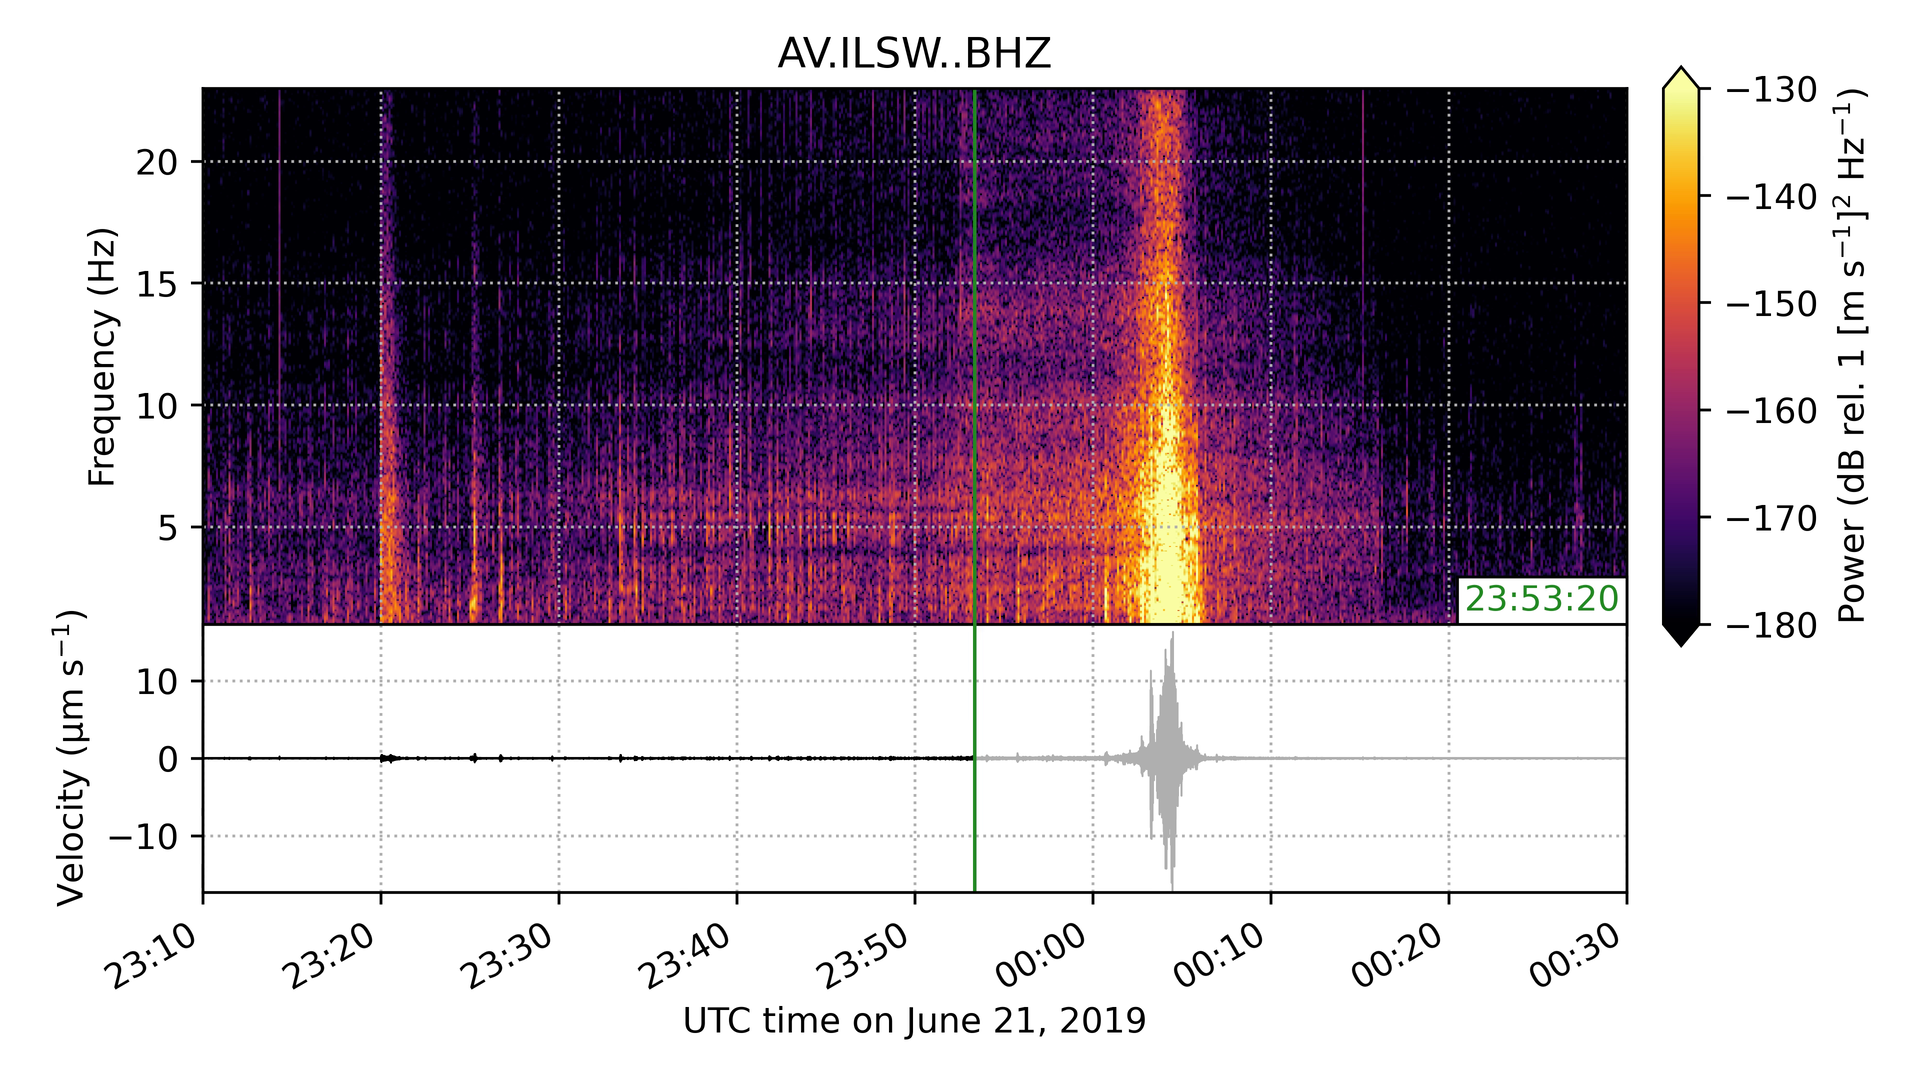
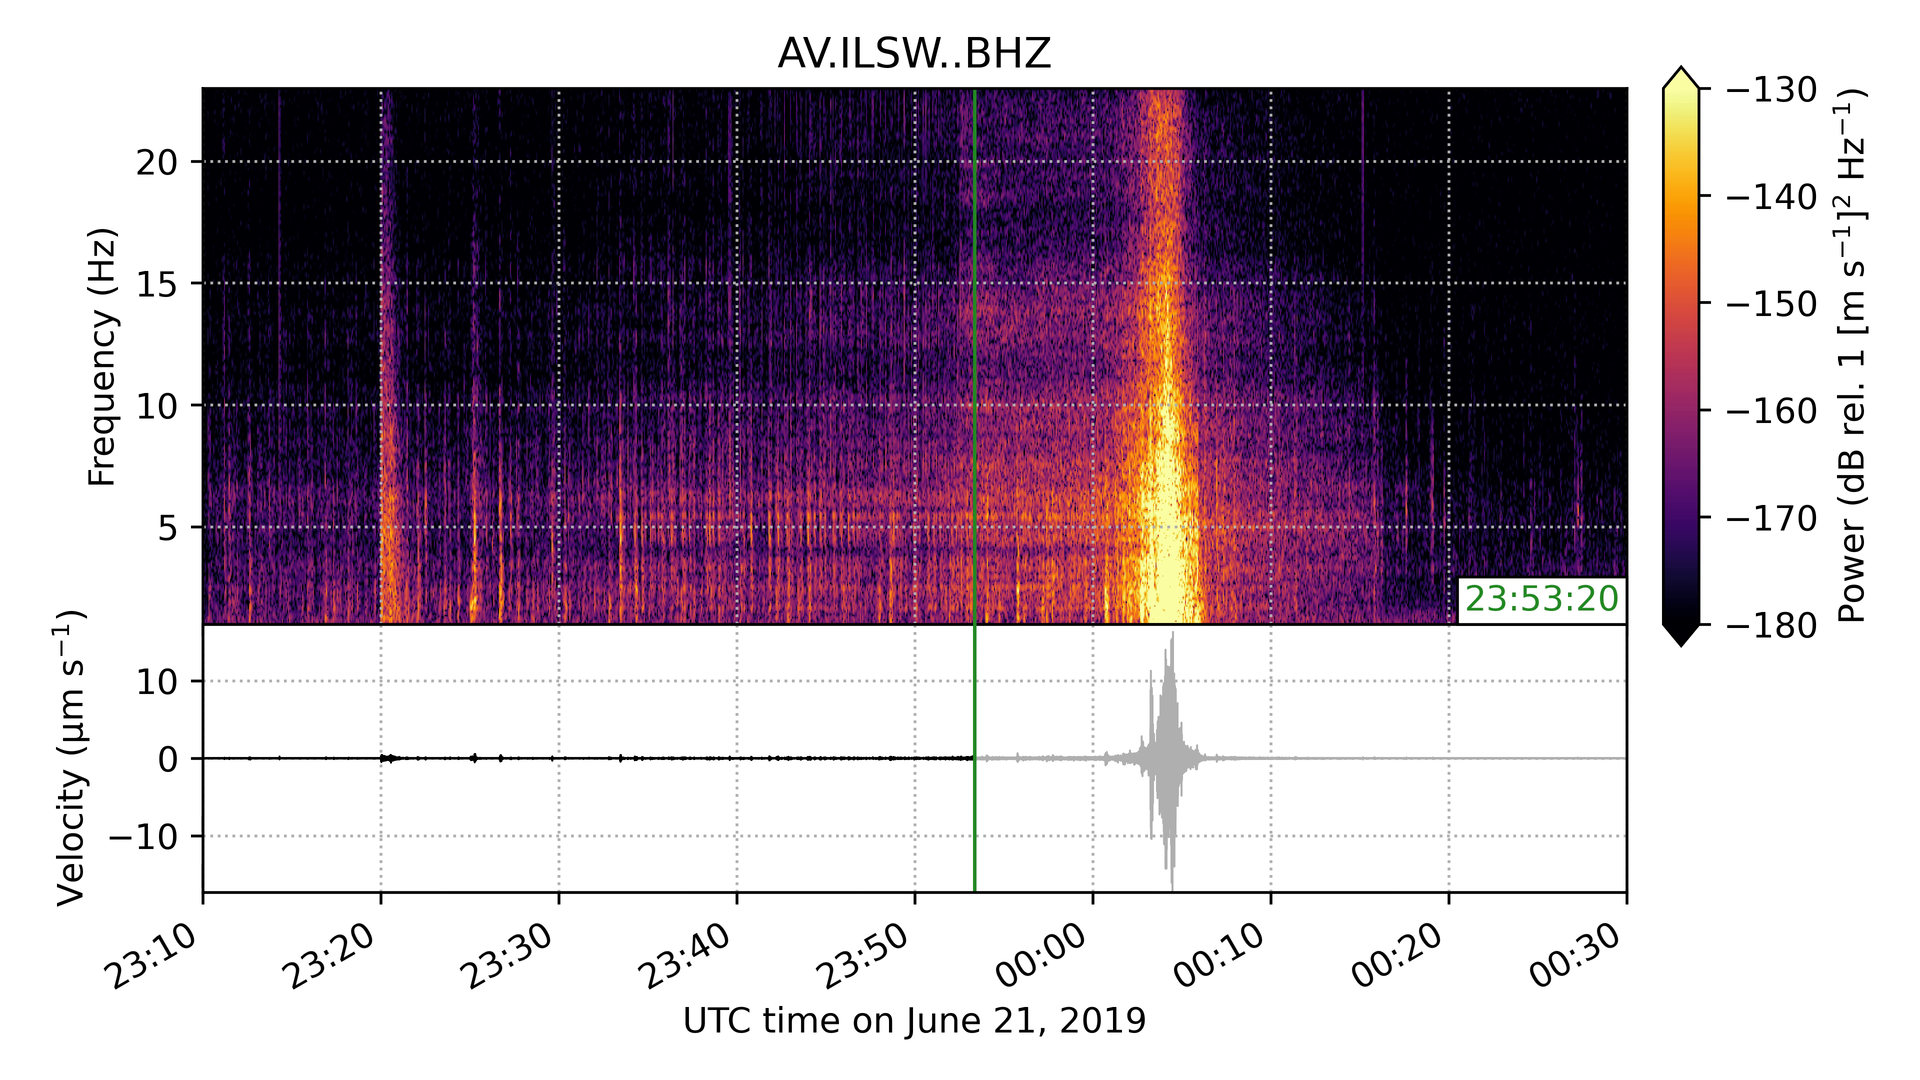
Increase window overlap for spectrogram

Changed region(s): [[0.0938, 0.0611, 0.8438, 0.5806], [0.6875, 0.0917, 0.7188, 0.1222]]

diff --git a/sonify/sonify.py b/sonify/sonify.py
@@ -269,7 +269,7 @@ def _spectrogram(
     nfft = np.power(2, int(np.ceil(np.log2(nperseg))) + 1)  # Pad fft with zeroes
 
     f, t, sxx = signal.spectrogram(
-        tr.data, fs, window='hann', nperseg=nperseg, nfft=nfft
+        tr.data, fs, window='hann', nperseg=nperseg, noverlap=nperseg // 2, nfft=nfft
     )
 
     sxx_db = 10 * np.log10(
